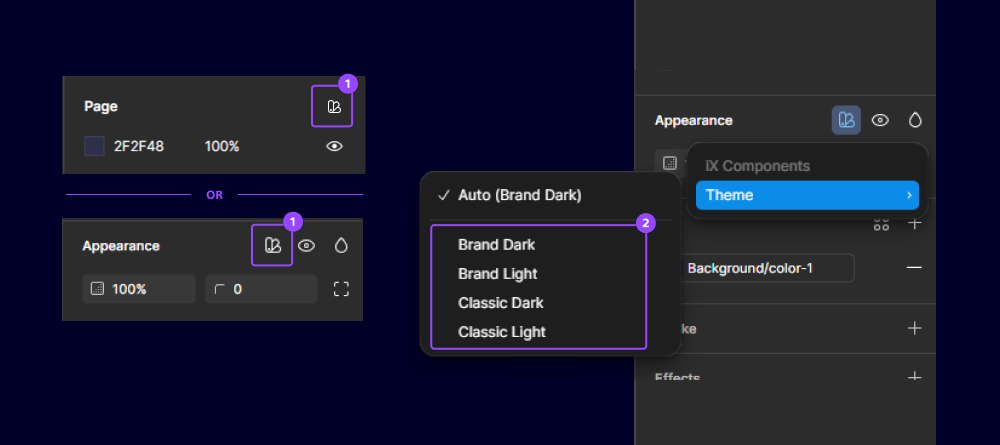
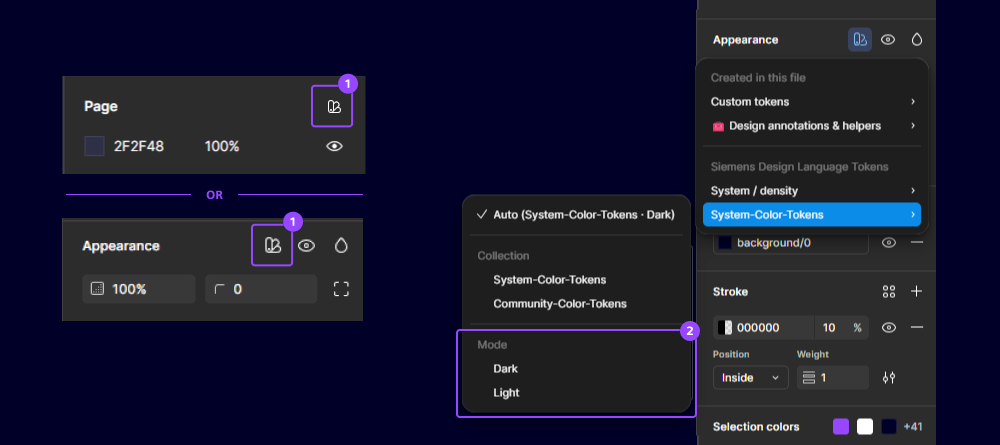
Applied feedback from review

diff --git a/CONTRIBUTING.md b/CONTRIBUTING.md
@@ -173,13 +173,7 @@ The script downloads new images and replaces outdated ones in the `static/figma/
 ## Design Token References
 
 The token reference chain is authoritative from source to published package:
-`@siemens-ux/design-tokens` supplies canonical names, paths, types, and
-descriptions; the generator emits the source manifest and validates Community as
-a value and structure delta; and IX publishes that manifest as
-`@siemens/ix/tokens/manifest.json`. The docs validate its schema, contract,
-provenance, coverage, and entries. The manifest contains metadata only: Community
-values come from the installed IX CSS, and Brand values come from the installed
-`@siemens-ix/corporate-theme` CSS.
+`@siemens-ux/design-tokens` supplies canonical names, paths, types, and descriptions; the generator emits the source manifest and validates Community (previously Classic) as a value and structure delta; and IX publishes that manifest as `@siemens/ix/tokens/manifest.json`. The docs validate its schema, contract, provenance, coverage, and entries. The manifest contains metadata only: Community values come from the installed IX CSS, and Brand values come from the installed `@siemens-ix/corporate-theme` CSS.
 
 To update a reference, publish the system-token, IX, and corporate-theme
 changes; update `@siemens/ix`, `BRAND_VERSION`, and the lockfile to matching

diff --git a/docs/styles/elevation.md b/docs/styles/elevation.md
@@ -52,7 +52,7 @@ Visually separate large sections on the base layer by applying [borders](borders
 
 #### Floating elements
 - **Purpose:** Elements that float above the main UI, demanding immediate attention or representing a temporary interaction.
-- **Usage:** Use selective shadows (primarily `--si-sys-color-effects-shadow-30`, see [shadow](shadows.md)) to indicate physical overlap for components like [dropdowns](../components/dropdown/index.mdx), [tooltips](../components/tooltip/index.mdx), [modals](../components/modal/index.mdx), and [toasts](../components/toast/index.mdx).
+- **Usage:** Use selective shadows (primarily `--si-sys-color-effects-shadow-30`, see [shadow](shadows.md)) to indicate physical overlap for components like [dropdowns](../components/dropdown/index.mdx), [tooltips](../components/tooltip/index.mdx) and [toasts](../components/toast/index.mdx).
 
 We don’t use shadows that are part of the primary layout flow e.g. [navigation elements](../components/application-menu) or [cards](../components/card/index.mdx).
 

diff --git a/docs/styles/theming/usage-designers.md b/docs/styles/theming/usage-designers.md
@@ -35,7 +35,7 @@ For more information see the official [Figma documentation](https://help.figma.c
 
 ![Changing theme variables](https://www.figma.com/design/wEptRgAezDU1z80Cn3eZ0o/iX-Pattern-Illustrations?type=design&node-id=2232-101&mode=design&t=C6IjeY71MP4uA7vZ-4)
 
-If want to adapt the community theme to your own brand design, follow these steps to modify the colors and other theme values within the Figma library:
+If want to adapt the community (previously Classic) theme to your own brand design, follow these steps to modify the colors and other theme values within the Figma library:
 
 1. Import "iX Components" into your Figma workspace.
 2. In the top-right corner of the Figma interface, click the button labeled "Open settings" with a settings icon to open the variables dialog.

diff --git a/docs/styles/sizing.md b/docs/styles/sizing.md
@@ -17,7 +17,7 @@ Compact mode is a new feature and is currently experimental. We are still evalua
 
 :::
 
-The system supports two densities. **Default** is the base density. **Compact** is a sparse override: it only redefines the tokens listed on this page and inherits every other token from the default density.
+The system supports two densities. **Default** is the base density. **Compact** is a sparse override: it only redefines the sizing tokens listed on this page, and the font-size and line-height from the [typography](./typography) variables. Every other token is inherited from the default density.
 
 ![Default and compact density comparison](https://www.figma.com/design/wEptRgAezDU1z80Cn3eZ0o/iX-Documentation-illustrations?node-id=8742-7072&t=Mmsji7qvSnFGiH3D-11)
 

diff --git a/docs/styles/theming/usage-developers.md b/docs/styles/theming/usage-developers.md
@@ -52,7 +52,7 @@ See [Global styles](../overview/code.mdx) for all entry points, their global eff
 
 ## Loading foundation and themes separately
 
-Import the foundation and theme files separately when you provide a custom theme or only need selected Community color schemas:
+Import the foundation and theme files separately when you provide a custom theme or only need selected Community (previously Classic) color schemas:
 
 ```ts
 import '@siemens/ix/css/foundation.css';
